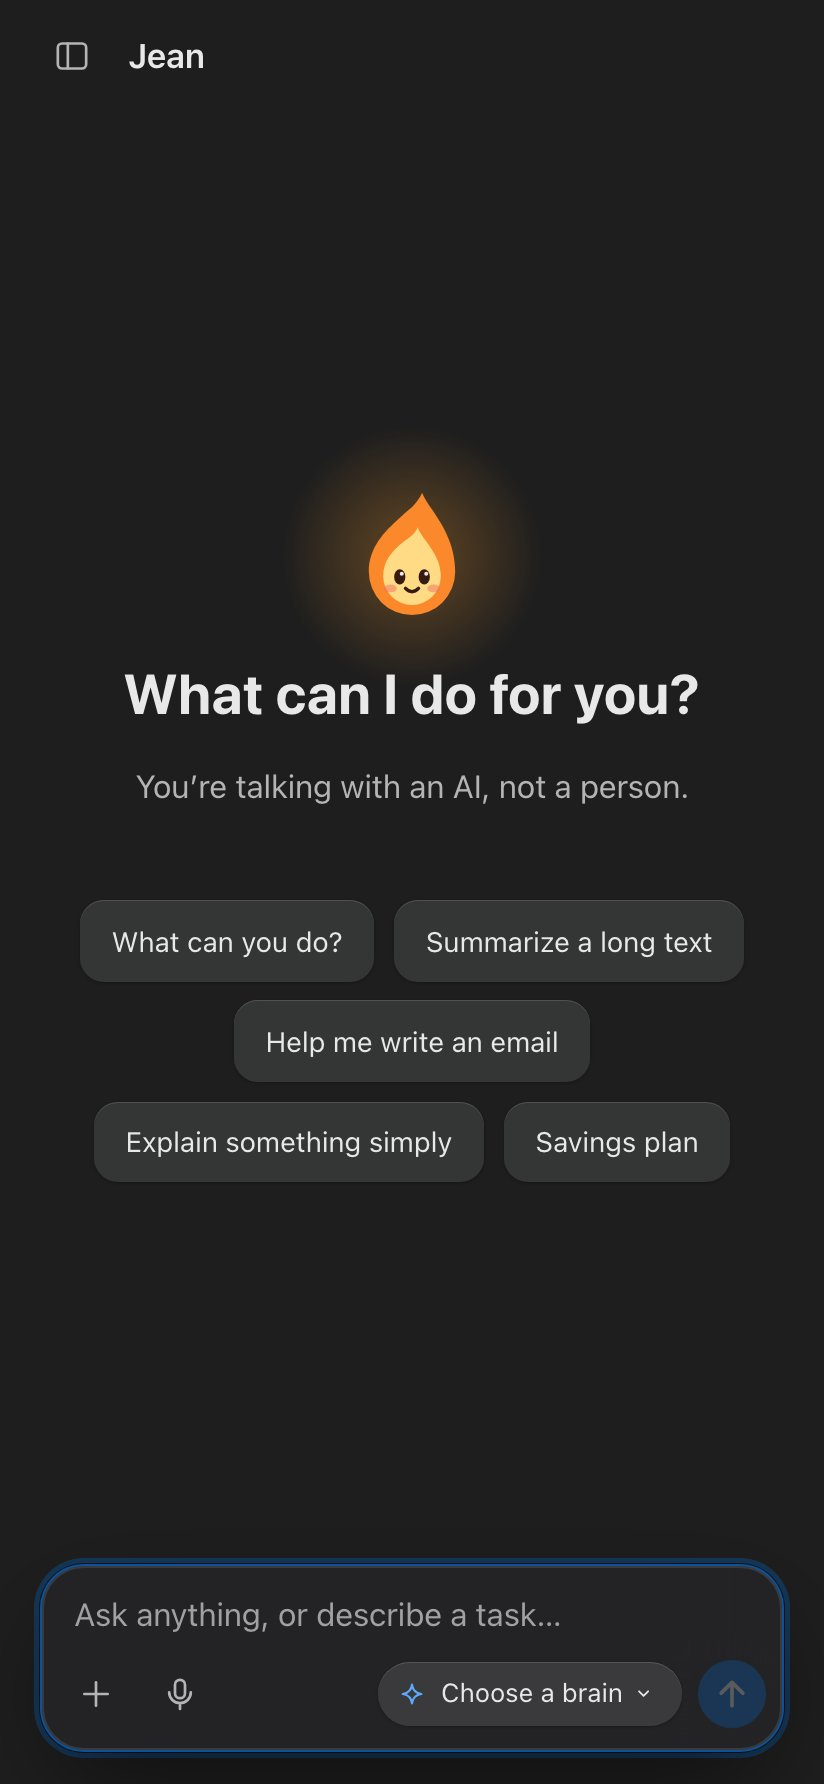
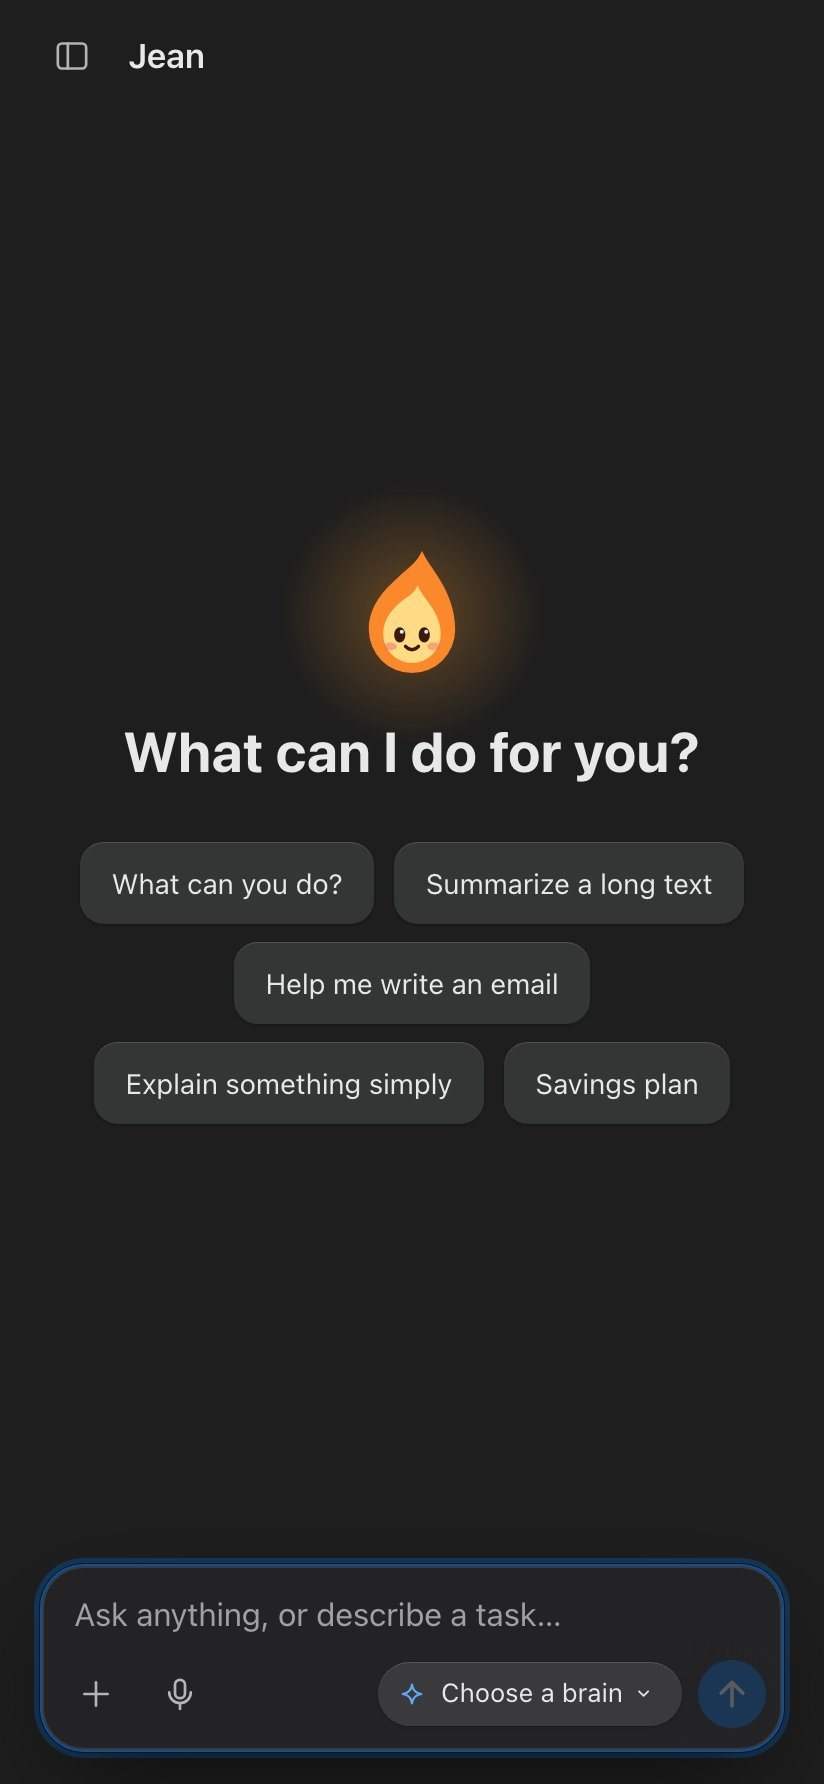
:lipstick: Once a task has started, a small line centred under the box says "{name} is AI and can make mistakes", in the user's language and with the name the assistant has there, and the box has it as its description for a screen reader; the welcome no longer says "You’re talking with an AI, not a 

Changed region(s): [[0.091, 0.2466, 0.9102, 0.6474]]

diff --git a/test/talk.spec.js b/test/talk.spec.js
@@ -3,7 +3,7 @@
 // the conversation, in the address (D137), a reload comes back to the line being read, and an
 // earlier conversation opens at its end. A request whose connection drops before its answer starts
 // is asked again (D202), and a key connects though its service is too busy to list its models.
-// Before anything is asked, the welcome says the user is talking with an AI (D273).
+// Once a task has started, a line under the box says the assistant is an AI and can make mistakes (D273).
 import { test, expect } from '@playwright/test'
 import { start, connectFakeBrain, ask, openSettings, closeSettings, openTasks, BRAIN_URL } from './helpers.js'
 
@@ -24,19 +24,28 @@ test('an answer, then its follow-ups as buttons', async ({ page }) => {
   await expect(page.locator('.msg-user').last()).toHaveText('Show it as a chart')
 })
 
-test('before anything is asked, the welcome says the user is talking with an AI, and the box says it to a screen reader (D273)', async ({ page }) => {
-  const said = { en: 'You’re talking with an AI, not a person.', ar: 'هذه محادثة مع ذكاء اصطناعي، لا مع إنسان.', ja: '会話の相手は人間ではなく、AIです。' }
-  for (const [lang, text] of Object.entries(said)) {
-    await start(page, lang)
-    await expect(page.locator('.welcome hgroup p')).toHaveText(text)
-    await expect(page.locator('.welcome hgroup p')).toBeInViewport()
-    await expect(page.locator('#prompt')).toHaveAccessibleDescription(text)
-  }
-  // Once asked, the conversation takes its place.
+test('once a task has started, a line under the box says the assistant is an AI, and the box says it to a screen reader (D273)', async ({ page }) => {
+  await start(page)
+  // Not on the welcome: nothing has been asked yet.
+  await expect(page.locator('.ai-note')).toHaveCount(0)
   await connectFakeBrain(page)
   await ask(page, 'Explain photosynthesis in simple words')
-  await expect(page.locator('.msg-jean .prose').last()).toContainText('Here is what I found')
-  await expect(page.locator('#prompt')).not.toHaveAccessibleDescription(said.ja)
+  const said = { en: 'Jean is AI and can make mistakes', ar: 'Jean ذكاء اصطناعي، والأخطاء واردة', ja: 'JeanはAIのため、間違えることがあります' }
+  for (const [lang, text] of Object.entries(said)) {
+    if (lang !== 'en') {
+      const settings = await openSettings(page)
+      await settings.locator('.settings-panel select').first().selectOption(lang)
+      await closeSettings(page)
+    }
+    await expect(page.locator('.ai-note')).toHaveText(text)
+    await expect(page.locator('.ai-note')).toBeInViewport()
+    await expect(page.locator('#prompt')).toHaveAccessibleDescription(text)
+  }
+  // A new task has none until something is asked.
+  await page.keyboard.press('ControlOrMeta+Shift+KeyO')
+  await expect(page.locator('.hero-question')).toBeVisible()
+  await expect(page.locator('.ai-note')).toHaveCount(0)
+  await expect(page.locator('#prompt')).toHaveAccessibleDescription('')
 })
 
 test('a request whose connection drops before its answer starts is asked again after a moment, saying so (D202)', async ({ page }) => {

diff --git a/app/ui/composer.js b/app/ui/composer.js
@@ -1,12 +1,13 @@
 // The box. Enter sends (never while an IME is composing), Shift+Enter adds a line, ↑ from an empty box
 // brings back what was asked (D187), / and @ at a word's start open a menu of what can be named (D199). Under it (D123):
 // + (files, a folder once Folders is on, a capture of the screen, the room's skills and connections, Visual answers, Web search's switch) and dictation,
-// then the modes + turned on, the brain, and one button to go.
+// then the modes + turned on, the brain, and one button to go. Below it, once a task has started, a line says the assistant
+// is an AI and can make mistakes (EU AI Act, art. 50; D273).
 import { html, nothing } from 'lit-html'
 import { signal } from '@preact/signals-core'
 import { live as current } from 'lit-html/directives/live.js'
 import { Element, define } from './base.js'
-import { app, activeBrain, brainsHere, chipLabel, effective, send, stop, setPresence, warm, removeAttachment, openFile, notify, SHORTCUTS } from './state.js'
+import { app, activeBrain, brainsHere, chipLabel, effective, send, stop, setPresence, warm, removeAttachment, openFile, notify, assistantName, SHORTCUTS } from './state.js'
 import { unlock, isDenied, loaded, slots } from './caps.js'
 import { t } from '../core/i18n.js'
 import { requestsOf } from '../core/events.js'
@@ -64,7 +65,7 @@ class Composer extends Element {
               @click=${() => removeAttachment(item.key)}>${icons.close}</button>
           </li>`)}</ul>` : nothing}
         <label class="visually-hidden" for="prompt">${t('composer.label')}</label>
-        <textarea id="prompt" rows="1" dir="auto" enterkeyhint="send" aria-describedby="welcome-ai"
+        <textarea id="prompt" rows="1" dir="auto" enterkeyhint="send" aria-describedby="ai-note"
           placeholder=${status || t('composer.placeholder')}
           .value=${current(app.draft.value)}
           @input=${this.#input} @keydown=${this.#keydown} @paste=${this.#paste}
@@ -92,7 +93,8 @@ class Composer extends Element {
           ${primary(busy, empty, hands)}
         </div>
         ${files ? html`<input type="file" multiple class="visually-hidden" tabindex="-1" aria-hidden="true" @change=${this.#pick}>` : nothing}
-      </form>`
+      </form>
+      ${app.current.value?.records.length ? html`<p class="ai-note" id="ai-note">${t('composer.ai', { name: assistantName() })}</p>` : nothing}`
   }
 
   connectedCallback() {

diff --git a/app/ui/style.css b/app/ui/style.css
@@ -555,6 +555,9 @@ app-composer { position: sticky; inset-block-end: 0; z-index: 2; padding: 0.5rem
 .composer textarea::placeholder { color: var(--ink-faint); }
 .composer-row { display: flex; align-items: center; gap: 0.5rem; margin-block-start: 0.35rem; }
 .composer-tools { display: flex; flex: none; align-items: center; gap: 0.15rem; margin-inline-start: -0.45rem; }
+/* Once a task has started, under the box: {name} is AI and can make mistakes (D273). */
+app-composer:has(.ai-note) { padding-block-end: max(0.5rem, env(safe-area-inset-bottom)); }
+.ai-note { inline-size: var(--column); margin: 0.45rem auto 0; font-size: 0.75rem; line-height: 1.3; text-align: center; color: var(--ink-soft); }
 .is-working { animation: pulse 1.1s ease-in-out infinite var(--loops, running); }
 .is-listening { color: var(--flame); box-shadow: 0 0 1rem -0.2rem oklch(from var(--glow) l c h / 0.8); animation: pulse 1.6s ease-in-out infinite var(--loops, running); }
 .brain-chip {

diff --git a/app/ui/shell.js b/app/ui/shell.js
@@ -134,11 +134,10 @@ function offerAside() {
   </aside>`
 }
 
-// Before anything is asked, it says the user is talking with an AI (EU AI Act, art. 50; D273).
 function welcome() {
   return html`<section class="welcome">
     <app-persona></app-persona>
-    <hgroup><h1 class="hero-question">${t('welcome.question')}</h1><p class="muted" id="welcome-ai">${t('welcome.ai')}</p></hgroup>
+    <h1 class="hero-question">${t('welcome.question')}</h1>
     <ul class="starters">${STARTERS.map((key) => html`<li>
       <button class="starter" @click=${() => { app.draft.value = t(`starter.${key}.prompt`); focusComposer() }}>${t(`starter.${key}`)}</button>
     </li>`)}</ul>

diff --git a/app/sw.js b/app/sw.js
@@ -1,6 +1,6 @@
 // Service worker: offline shell and per-capability caches (classic script).
 // VERSION is rewritten by scripts/manifest.js whenever any shipped file changes.
-const VERSION = 'ff040ddced9b'
+const VERSION = 'f88ed9e450c3'
 const SHELL = `app-shell-${VERSION}`
 // Capability caches carry the version too: an update re-caches every unlocked capability,
 // copying unchanged files over, so old code is never served next to a new shell.

diff --git a/docs/decisions.md b/docs/decisions.md
@@ -151,7 +151,7 @@ A new decision takes the next number after the highest one here (D173), checked 
 - **D34 · The display face is Instrument Serif (OFL),** regular and italic Latin subsets of about 15 KB each; other scripts use the system font. *Rejected:* variable fonts with many axes.
 - **D73 · The room's warmth is one custom property, `--warmth`, set through CSSOM,** a step per discovery (the CSP blocks style attributes).
 - **D77 · D78 · Jean's persona is the little light:** a small flame with a face, one inline SVG animated with CSS from `data-presence`, decorative, wordless and genderless, kept out of the prompt. It is the app icon, and a project's colour (`--tint`) gives it its hue. *Rejected:* a mascot apart from the light; a character that talks; `hue-rotate()`.
-- **D273 · Before anything is asked, the welcome says the user is talking with an AI, not a person.** Under its question, which it joins in an `<hgroup>`, a line in the room's catalogue (`welcome.ai`) says it in the user's language, on every new task and whatever the assistant is called; the box has it as its description, so a screen reader hears it where the keyboard starts. *Why:* art. 50(1) of the AI Act (Regulation (EU) 2024/1689), applying since 2 August 2026 and not deferred by the Digital Omnibus (Regulation (EU) 2026/1744), has a system made to interact with people tell them they are interacting with an AI, unless that is obvious, and art. 50(5) asks for it clearly and distinguishably, at the latest at the first interaction, and accessibly (the Commission's guidelines: C(2026) 5054). Art. 2(12)'s exemption for free and open-source software leaves out art. 50, so Jean is in scope, and with a person's name (Jean, or the one a project's assistant is given) and a face (D77) it is not obvious. The line is about the user's side, so it never names the assistant (D25); where a language marks the user's gender, it says "this is a conversation with an AI". *Rejected:* "Jean is an AI" (the name changes, and some languages agree with it); the statement only in the page's description, the terms or Settings, where it isn't seen at the first interaction; a notice to dismiss, which is gone afterwards and costs a click before the first question; a mark on every answer, which the first load has no room for and the law doesn't ask for.
+- **D273 · Once a task has started, a line under the box says the assistant is an AI and can make mistakes.** From the first request on, a small line centred under the box (`composer.ai`) says "{name} is AI and can make mistakes" in the user's language, with the name the assistant has where the task is; the box has it as its description, so a screen reader hears it where the keyboard is. The welcome doesn't say it: nothing has been asked yet. *Why:* art. 50(1) of the AI Act (Regulation (EU) 2024/1689), applying since 2 August 2026 and not deferred by the Digital Omnibus (Regulation (EU) 2026/1744), has a system made to interact with people tell them they are interacting with an AI, unless that is obvious, and art. 50(5) asks for it clearly and distinguishably, at the latest at the first interaction, and accessibly (the Commission's guidelines: C(2026) 5054); the first request is that interaction, and the line comes with it and stays in sight for the rest of the task. Art. 2(12)'s exemption for free and open-source software leaves out art. 50, so Jean is in scope, and with a person's name (Jean, or the one a project's assistant is given) and a face (D77) it is not obvious. The mistakes are said too, as other assistants say them under their box. No translation agrees with `{name}` (D25): where a language would, it uses a copula that doesn't mark gender, a colon, or "mistakes can happen". *Rejected:* a line under the welcome's question on every new task, which took the welcome's room before anything was asked and said nothing of mistakes; the statement only in the page's description, the terms or Settings, where it isn't seen at the first interaction; a notice to dismiss, which is gone afterwards and costs a click; a mark on every answer, which the law doesn't ask for.
 - **D85 · D107 · D130 · D135 · Light or dark: Auto follows the device; Light or Dark stays put.** The choice belongs to the device (`app.theme` in `localStorage`, absent for Auto), applied before the first paint by an inline line allowed by its hash; ⌘⇧D switches, and switching back to what the device shows is Auto again. *Rejected:* keeping it in `settings.json` (read after the first paint, and carried to other devices); a three-way cycle on the key; `light-dark()`.
 - **D111 · D120 · D125 · D132 · D174 · Fifteen themes, each a style sheet over the room's, Human by default and first, and Make it yours.** `ui/style.css` is the room; each other theme (a "look" in code) is `ui/looks/<id>.css`, loaded when chosen, every rule under `:root[data-look='<id>']`, with light and dark palettes and system typefaces; `test/looks.test.js` checks AA contrast; trademarked names stay out of the UI, so the look after today's Mac is Human (D132). Jean starts in Human until the user picks a look, the room included; its sheet comes with the first paint, but the first-load budgets count only the sheets `index.html` links. The gallery shows Human first, then goes from the calmest look to the most playful. Make it yours adds an accent, a background, a text size, a typeface and the user's own CSS, as one constructed style sheet (`ui/touches.js`); that CSS starts from Jean's main hooks, commented out, the same in every language and with no notes (`ui/touches.css`, a plain file the dialogs read), saved only once changed. The look is in `settings.json`, and in `app.look` for the first paint. Depth's floor is drawn once and moved only by transforms. Going to another task or a new one (`turnPage()`) happens at once, with nothing over the page, after the page asked for before it, so the last one asked for shows. *Rejected:* web fonts per look; a 3D library; custom CSS in a `<style>` (needs `unsafe-inline`); the starter as a placeholder, which can't be uncommented, or as a string in the code, over the line budget; a style sheet per look in place of `style.css`; counting the default look's sheet in the first-load budgets; Pixel, a 1989 handheld's four greens; turning the page with a view transition, which a look staged (Depth swung the pages about its floor, the other way to an older task): the browser covers the whole document with a picture of it until the turn ends, so a click on the list was lost and the pointer turned into an arrow; forwarding those clicks, which left the arrow; a view transition of the conversation alone, which Chromium shows blank once it is long and scrolled down, and WebKit lacks; in Human, the Mac's three lights on sheets and panels, two of which did nothing (a close button like every other).
 - **D113 · D117 · D127 · D128 · D134 · D150 · D153 · D154 · D165 · D181 · D234 · D254 · D288 · Settings, and the drawer.** Settings is a menu beside the section open, in three groups (General, Brains, Appearance, Keyboard shortcuts; About you, then Connections, Web search, Skills, Routines and Computer once found, then Capabilities; Approvals, Your data), each list a rounded group of rows. Brains is one choice of who answers, Auto or a brain, then the ways to add one, one open at a time. Capabilities is a case of trophies: the light's rank (Spark, Candle, Lantern, Hearth, then Daylight) and a medal per capability that says how to find it. The drawer, after Manus: New task, which brings the keyboard to the box, a row per place found (Connections, Skills, Routines), the tasks under their heading, those the user pinned under Pinned above them, each with a ⋮ menu that holds Pin (or Unpin), Rename, Mark as unread (or read), Save a copy (D305) and Delete, the only one in red. Renaming puts a box in the task's place, a double click too; Enter or leaving it names the task, Escape doesn't. An answer that comes while its task isn't on screen marks it unread, and opening it reads it; an unread task has a still light where a running one's pulses. Each is a `meta` record in the conversation (`title`, `pinned`, `unread`), the latest winning, and none moves a task among the others: its place is when something was last said or done in it. A pin and a name are kept when the user goes back to a request; a routine's runs are neither pinned nor renamed, as the next run takes the row and the routine's name. whose button takes no room until the pointer is on the task, so its title shows whole (Tab stops once per task, ↑ ↓, Home and End go from task to task, ← → along it to its ⋮ button), and the user at the foot, whose menu holds Settings, About you, the language and the theme (as thumbnails; the menu stays open while they change), dark mode and what Jean can do. On a window at least 48rem wide the drawer stays open beside the conversation or is put away, as the user left it on that device (`app.sidebar`); Mail and Human start with it open. Opened or put away, it slides from the start edge, a view transition in which the conversation and the box move over as they will be. It scrolls without a bar of its own, and the page stops at its edges, without the bounce that showed what lay beyond. The UI calls a conversation a task. *Rejected:* dialogs of their own for brains, connections or what Jean knows (two places for one thing); a list of capability cards; points or secret trophies; tabs across the top; settings in the header; a delete button on each task, one slip from losing it; the list of pinned or read tasks in settings, apart from the files they mark; unread tasks in bold, which says less than a light; the ⋮ button hidden but in its place, which cut every title short, and a Tab stop of its own, which made going down the list twice as long; a scroll bar at the drawer's edge, which looked like a handle to drag and moved nothing; the conversation fading from its old layout into its new one as the drawer slides, two of it at once.

diff --git a/docs/product.md b/docs/product.md
@@ -33,7 +33,7 @@ These are i18n strings, so the UI words can change later at no cost. Folder name
 
 ## Progressive discovery
 
-Jean is learned the way *A Dark Room* is played: the first screen holds a single box ("What can I do for you?", and under it "You’re talking with an AI, not a person.", D273), and capabilities show up when a situation calls for them.
+Jean is learned the way *A Dark Room* is played: the first screen holds a single box ("What can I do for you?"; once something is asked, a line under it says "Jean is AI and can make mistakes", D273), and capabilities show up when a situation calls for them.
 
 **How it works:**
 
